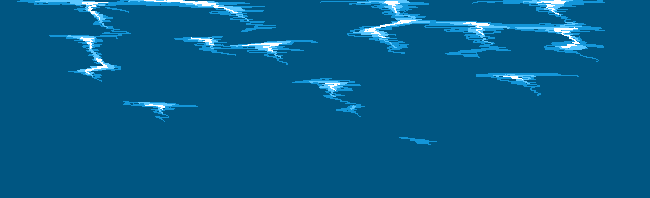
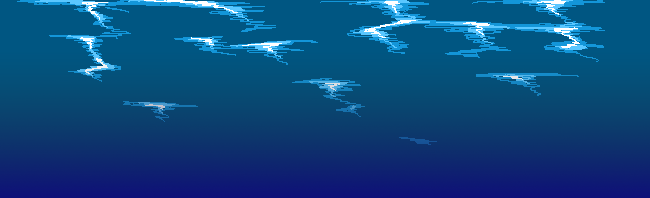
Update

diff --git a/data/theme/beach.css b/data/theme/beach.css
@@ -2,16 +2,17 @@
 /* =========================================== */
 body {
     background-image:
-        url("default/sky_cloud.png"),
-        url("beach/front_cloud.png"),
+        url("beach/island.png"),
+        url("beach/water.png"),
+        url("beach/front-cloud.png"),
         url("beach/back-cloud.png"),
-        linear-gradient(180deg, rgba(0, 0, 0, 0) 0%, rgba(7, 15, 107, 0.95) 25%, rgba(22, 119, 156, 1) 80%),
+        linear-gradient(180deg, rgba(0, 0, 0, 0) 0%, rgba(11, 0, 112, 0.95) 25%, rgb(0, 146, 231) 80%),
         url("default/background.bmp");
-    background-repeat: repeat-x, repeat-x, repeat-x, no-repeat, repeat;
-    background-position: center, bottom, bottom, top, top;
+    background-repeat: no-repeat, repeat-x, repeat-x, repeat-x, no-repeat, repeat;
+    background-position: bottom right, bottom, center, center, top, top;
     background-attachment: fixed;
     background-color: #064564;
-    background-size: 80vh, 80vh, 80vh, cover, 20vh;
+    background-size: 80vh, 80vh, 80vh, 80vh, cover, 20vh;
     image-rendering: pixelated;
     -moz-image-rendering: crisp-edges;
 }
@@ -98,7 +99,7 @@ body {
         height: 100%;
         user-select: none;
         pointer-events: none;
-        z-index: 0;
+        z-index: -2;
     }
 
     #overlay {
@@ -133,31 +134,33 @@ body {
         background-size: 80vh;
     }
 
-    .overlay-4 {
-        background-image: url("beach/wave.png");
-        animation: 30s wave-move ease-in-out infinite;
-        background-position-y: 71vh;
-        background-position-x: 100vh;
-        background-repeat: no-repeat;
-        background-size: 80vh;
-    }
+    @media screen and (min-height: 500px) {
+        .overlay-4 {
+            background-image: url("beach/wave.png");
+            animation: 30s wave-move ease-in-out infinite;
+            background-position-y: 70.5vh;
+            background-position-x: 50vw;
+            background-repeat: no-repeat;
+            background-size: 80vh;
+        }
 
-    .overlay-5 {
-        background-image: url("beach/wave.png");
-        animation: 20s wave-move ease-in-out infinite;
-        background-position-y: 71vh;
-        background-position-x: 100vh;
-        background-repeat: no-repeat;
-        background-size: 80vh;
-    }
+        .overlay-5 {
+            background-image: url("beach/wave.png");
+            animation: 20s wave-move ease-in-out infinite;
+            background-position-y: 70.5vh;
+            background-position-x: 50vw;
+            background-repeat: no-repeat;
+            background-size: 80vh;
+        }
 
-    .overlay-6 {
-        background-image: url("beach/wave.png");
-        animation: 10s wave-move ease-in-out infinite;
-        background-position-y: 71vh;
-        background-position-x: 100vh;
-        background-repeat: no-repeat;
-        background-size: 80vh;
+        .overlay-6 {
+            background-image: url("beach/wave.png");
+            animation: 10s wave-move ease-in-out infinite;
+            background-position-y: 70.5vh;
+            background-position-x: 50vw;
+            background-repeat: no-repeat;
+            background-size: 80vh;
+        }
     }
 
     @keyframes water-move {
@@ -181,23 +184,19 @@ body {
 
     @keyframes wave-move {
         0% {
-            transform: scale(5%);
-            background-position-x: 110vh;
-            background-position-y: 71vh;
+            transform: scalex(5%);
             opacity: 0;
         }
 
         50% {
-            transform: scale(100%);
-            background-position-x: 130vh;
-            background-position-y: 71vh;
+            transform: scalex(100%);
+            background-position-x: 90%;
             opacity: 1;
         }
 
         100% {
-            transform: scale(5%);
-            background-position-x: 100vh;
-            background-position-y: 71vh;
+            transform: translateY(24%) scaley(15%);
+            background-position-x: 60%;
             opacity: 0;
         }
     }

diff --git a/Log.html b/Log.html
@@ -39,7 +39,7 @@
 
             <div id="content">
                 <div Style="width: 850px; font-weight: bold; font-size: 13px; text-align: left; line-height: 18.9px;">
-                    Mar 08 2022 - <a href="story/0122.html">==></a><br>
+                    Mar 08 2022 - <a href="story/0126.html">==></a><br>
                     Mar 08 2022 - <a href="story/0125.html">==></a><br>
                     Mar 08 2022 - <a href="story/0124.html">==></a><br>
                     Mar 06 2022 - <a href="story/0123.html">==></a><br>

diff --git a/story/0127.html b/story/0127.html
@@ -42,7 +42,7 @@
             <img src="img/0127.gif" />
 
             <div id="content">
-                The shuttle touches down with a graceful CRASH.
+                The shuttle touched down with a graceful CRASH.
             </div>
 
             <div id="foot">
